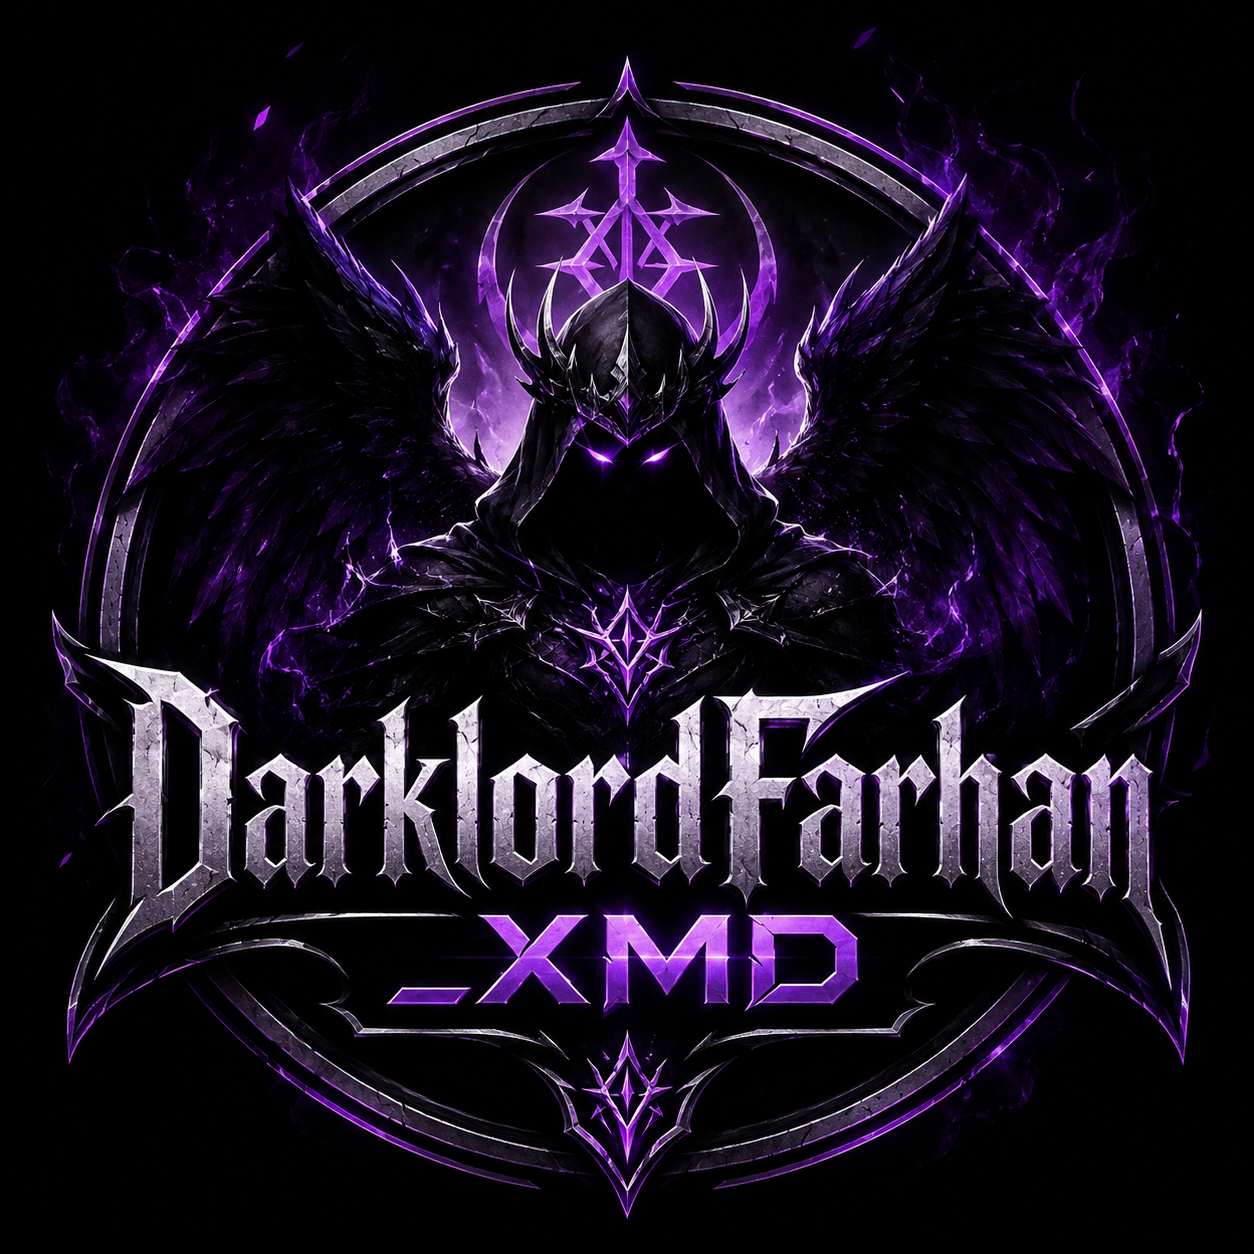
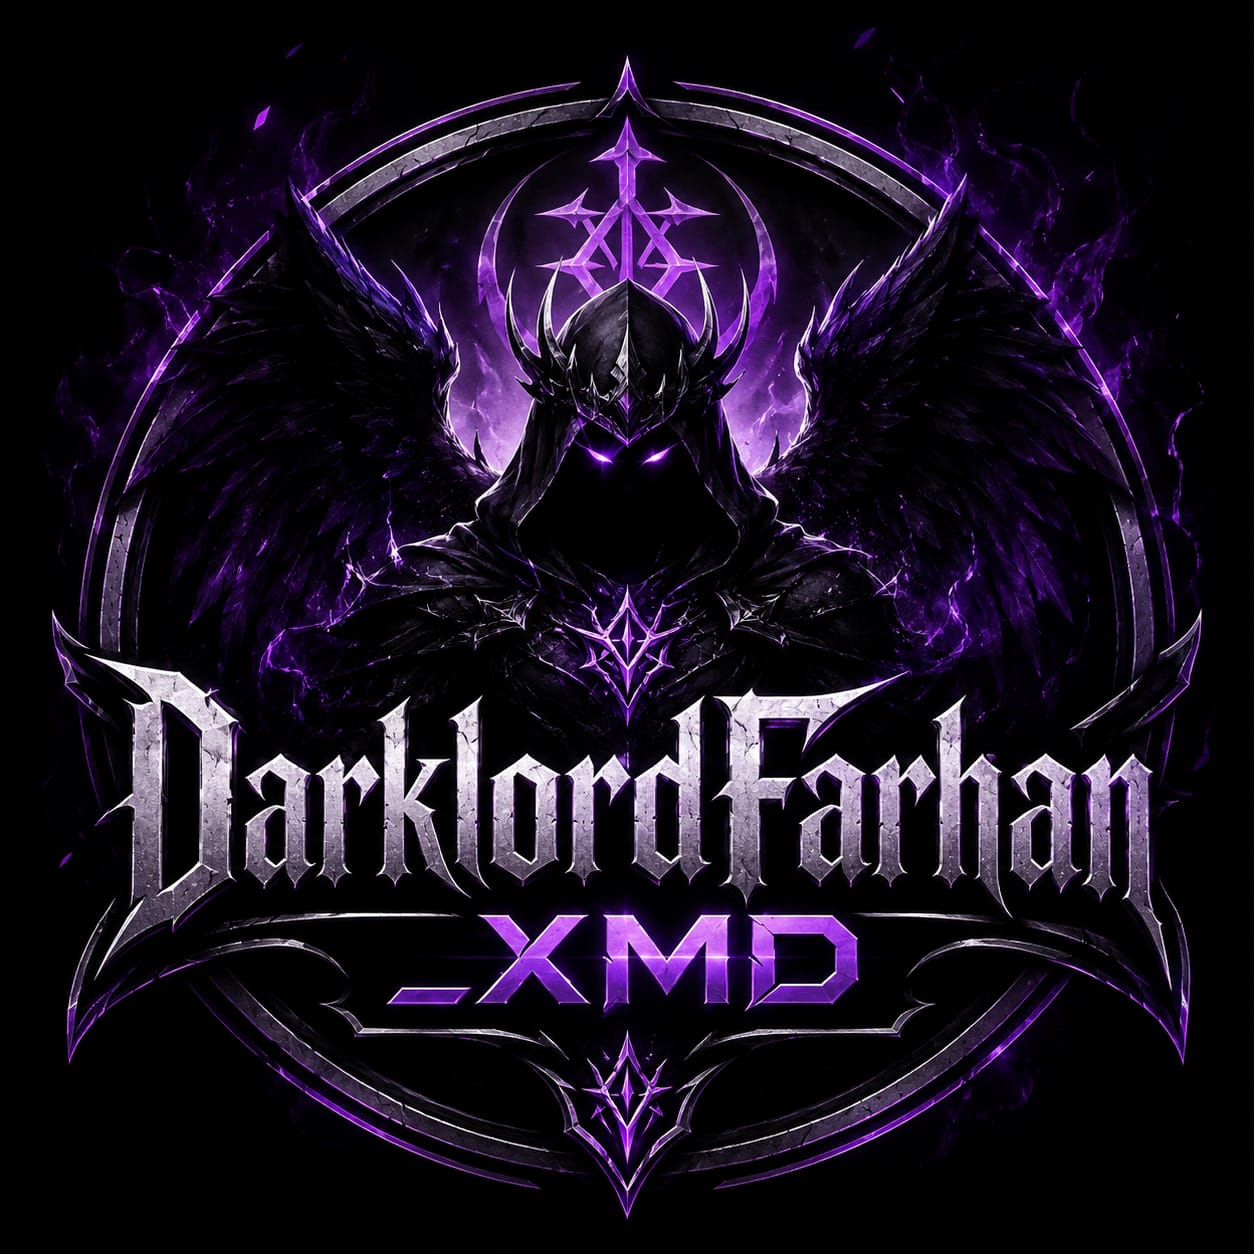
Update bot's appearance and command menu with new branding
Redesigns the bot's menu interface with a new dark purple theme, incorporates a custom bot image, and updates the developer's contact number in the report command.

Replit-Commit-Author: Agent
Replit-Commit-Session-Id: 5fcb4880-fccd-43ae-b516-5ff88f8c8437
Replit-Commit-Checkpoint-Type: full_checkpoint
Replit-Commit-Event-Id: 02fad13e-9cdf-47b8-a497-d85a2bf64881
Replit-Commit-Screenshot-Url: https://storage.googleapis.com/screenshot-production-us-central1/4ccef4db-2ed9-409e-8980-ad651f41438b/5fcb4880-fccd-43ae-b516-5ff88f8c8437/VlQg2rD
Replit-Helium-Checkpoint-Created: true

Changed region(s): [[0.4665, 0.4976, 0.5287, 0.5598], [0.4665, 0.8397, 0.5287, 0.9019]]

diff --git a/gifted/general.js b/gifted/general.js
@@ -80,7 +80,7 @@ gmd(
     const { mek, q, sender, react, pushName, botPrefix, isSuperUser, reply } =
       conText;
     const reportedMessages = {};
-    const devlopernumber = "254799916673";
+    const devlopernumber = "254795463911";
     try {
       if (!isSuperUser) return reply("*Owner Only Command*");
       if (!q)
@@ -139,6 +139,7 @@ gmd(
       timeZone,
       botPrefix,
       newsletterJid,
+      newsletterUrl,
       reply,
       ownerNumber,
     } = conText;
@@ -175,28 +176,28 @@ gmd(
       ).length;
 
       let menus = `
-*🦄 Uᴘᴛɪᴍᴇ :* ${monospace(uptime)}
-*🍁 Dᴀᴛᴇ Tᴏᴅᴀʏ:* ${monospace(date)}
-*🎗 Tɪᴍᴇ Nᴏᴡ:* ${monospace(time)}
+╔══════════════════════╗
+║   𝐃𝐀𝐑𝐊 𝐋𝐎𝐀𝐃 𝐗𝐌𝐃   ║
+╚══════════════════════╝
 
-➮Fᴏᴜɴᴅᴇʀ - Gifted Tech
-➮Usᴇʀ - ${monospace(pushName)}
-➮Nᴜᴍ - ${monospace(ownerNumber)} 
-➮Mᴇᴍᴏʀʏ - ${monospace(ram)}
+👤 *Uꜱᴇʀ:* ${monospace(pushName)}
+⏱️ *Uᴘᴛɪᴍᴇ:* ${monospace(uptime)}
+🕐 *Tɪᴍᴇ:* ${monospace(time)}
+📅 *Dᴀᴛᴇ:* ${monospace(date)}
+🖥️ *Rᴀᴍ:* ${monospace(ram)}
+📦 *Cᴏᴍᴍᴀɴᴅꜱ:* ${monospace(totalCommands.toString())}
 
-*🧑💻 :* ${monospace(botName)} Iꜱ Aᴠᴀɪʟᴀʙʟᴇ
+╔══════════════════════╗
+║     𝐐𝐔𝐈𝐂𝐊 𝐌𝐄𝐍𝐔      ║
+╚══════════════════════╝
+🔹 ${monospace(botPrefix + "menu")}  — Full command list
+🔹 ${monospace(botPrefix + "list")}  — All commands
+🔹 ${monospace(botPrefix + "ping")}  — Bot speed
+🔹 ${monospace(botPrefix + "uptime")} — Bot uptime
+🔹 ${monospace(botPrefix + "repo")}  — Bot script
+🔹 ${monospace(botPrefix + "owner")} — Owner info
 
-╭──❰ *ALL MENU* ❱
-│🏮 Lɪꜱᴛ
-│🏮 Cᴀᴛᴇɢᴏʀʏ
-│🏮 Hᴇʟᴘ
-│🏮 Aʟɪᴠᴇ
-│🏮 Uᴘᴛɪᴍᴇ
-│🏮 Wᴇᴀᴛʜᴇʀ
-│🏮 Lɪɴᴋ
-│🏮 Cᴘᴜ
-│🏮 Rᴇᴘᴏꜱɪᴛᴏʀʏ
-╰─────────────⦁`;
+> *${botFooter}*`;
 
       const giftedMess = {
         image: { url: botPic },
@@ -278,22 +279,24 @@ gmd(
       ).length;
 
       let list = `
-╭━━〔 *${monospace(botName)}* 〕━━╮
-│ ✦ *Mᴏᴅᴇ* : ${monospace(botMode)}
-│ ✦ *Pʀᴇғɪx* : [ ${monospace(botPrefix)} ]
-│ ✦ *Usᴇʀ* : ${monospace(pushName)}
-│ ✦ *Pʟᴜɢɪɴs* : ${monospace(totalCommands.toString())}
-│ ✦ *Vᴇʀsɪᴏɴ* : ${monospace(botVersion)}
-│ ✦ *Uᴘᴛɪᴍᴇ* : ${monospace(uptime)}
-│ ✦ *Tɪᴍᴇ Nᴏᴡ* : ${monospace(time)}
-│ ✦ *Dᴀᴛᴇ Tᴏᴅᴀʏ* : ${monospace(date)}
-│ ✦ *Tɪᴍᴇ Zᴏɴᴇ* : ${monospace(timeZone)}
-│ ✦ *Sᴇʀᴠᴇʀ Rᴀᴍ* : ${monospace(ram)}
-╰─────────────╯${readmore}\n`;
+╔══════════════════════╗
+║   𝐃𝐀𝐑𝐊 𝐋𝐎𝐀𝐃 𝐗𝐌𝐃   ║
+╚══════════════════════╝
+⚡ *Mᴏᴅᴇ:* ${monospace(botMode)}
+🔑 *Pʀᴇꜰɪx:* [ ${monospace(botPrefix)} ]
+👤 *Uꜱᴇʀ:* ${monospace(pushName)}
+📦 *Pʟᴜɢɪɴꜱ:* ${monospace(totalCommands.toString())}
+🔖 *Vᴇʀꜱɪᴏɴ:* ${monospace(botVersion)}
+⏱️ *Uᴘᴛɪᴍᴇ:* ${monospace(uptime)}
+🕐 *Tɪᴍᴇ:* ${monospace(time)}
+📅 *Dᴀᴛᴇ:* ${monospace(date)}
+🌍 *Tɪᴍᴇᴢᴏɴᴇ:* ${monospace(timeZone)}
+🖥️ *Rᴀᴍ:* ${monospace(ram)}
+${readmore}\n`;
 
       commands.forEach((gmd, index) => {
         if (gmd.pattern && gmd.description) {
-          list += `*${index + 1} ${monospace(gmd.pattern)}*\n  ${gmd.description}\n`;
+          list += `💠 *${monospace(botPrefix + gmd.pattern)}*\n   ↳ ${gmd.description}\n`;
         }
       });
 
@@ -394,32 +397,32 @@ gmd(
         categorized[cat].sort((a, b) => a.pattern.localeCompare(b.pattern));
       }
 
-      let header = `꧁༒☬ *${botName}* ☬༒꧂
-
-▓▓▓▓▓▓▓▓▓▓▓▓▓▓▓▓▓▓▓▓
-🌑 *Sᴜᴍᴍᴏɴᴇᴅ Bʏ:*  ${monospace(pushName)}
-⚔️ *Mᴏᴅᴇ:*  ${monospace(botMode)}
-🔱 *Pʀᴇғɪx:*  [ ${monospace(botPrefix)} ]
-💀 *Cᴏᴍᴍᴀɴᴅs:*  ${monospace(totalCommands.toString())}
-🔮 *Vᴇʀsɪᴏɴ:*  ${monospace(botVersion)}
-⏳ *Uᴘᴛɪᴍᴇ:*  ${monospace(uptime)}
-🕐 *Tɪᴍᴇ:*  ${monospace(time)}
-📅 *Dᴀᴛᴇ:*  ${monospace(date)}
-🌍 *Tɪᴍᴇ Zᴏɴᴇ:*  ${monospace(timeZone)}
-🖥️ *Sᴇʀᴠᴇʀ Rᴀᴍ:*  ${monospace(ram)}
-▓▓▓▓▓▓▓▓▓▓▓▓▓▓▓▓▓▓▓▓
-\n${readmore}\n`;
+      let header = `
+╔══════════════════════╗
+║   𝐃𝐀𝐑𝐊 𝐋𝐎𝐀𝐃 𝐗𝐌𝐃   ║
+╚══════════════════════╝
+👤 *Sᴜᴍᴍᴏɴᴇᴅ Bʏ:* ${monospace(pushName)}
+⚡ *Mᴏᴅᴇ:* ${monospace(botMode)}
+🔑 *Pʀᴇꜰɪx:* [ ${monospace(botPrefix)} ]
+📦 *Cᴏᴍᴍᴀɴᴅꜱ:* ${monospace(totalCommands.toString())}
+🔖 *Vᴇʀꜱɪᴏɴ:* ${monospace(botVersion)}
+⏱️ *Uᴘᴛɪᴍᴇ:* ${monospace(uptime)}
+🕐 *Tɪᴍᴇ:* ${monospace(time)}
+📅 *Dᴀᴛᴇ:* ${monospace(date)}
+🌍 *Tɪᴍᴇᴢᴏɴᴇ:* ${monospace(timeZone)}
+🖥️ *Rᴀᴍ:* ${monospace(ram)}
+${readmore}\n`;
 
       const formatCategory = (category, gmds) => {
-        const title = `☬━━━❮ *${monospace(category.toUpperCase())}* ❯━━☬\n`;
+        const title = `╔══〔 *${monospace(category.toUpperCase())}* 〕══╗\n`;
         const body = gmds
           .map((gmd) => {
             const prefix = gmd.isBody ? "" : botPrefix;
-            return `💠 ${monospace(prefix + gmd.pattern)}`;
+            return `  💠 ${monospace(prefix + gmd.pattern)}`;
           })
           .join("\n");
-        const footer = `▓▓▓▓▓▓▓▓▓▓▓▓▓▓▓▓▓▓▓▓\n`;
-        return `${title}${body}\n${footer}\n`;
+        const footer = `\n╚══════════════════════╝\n`;
+        return `${title}${body}${footer}\n`;
       };
 
       let menu = header;